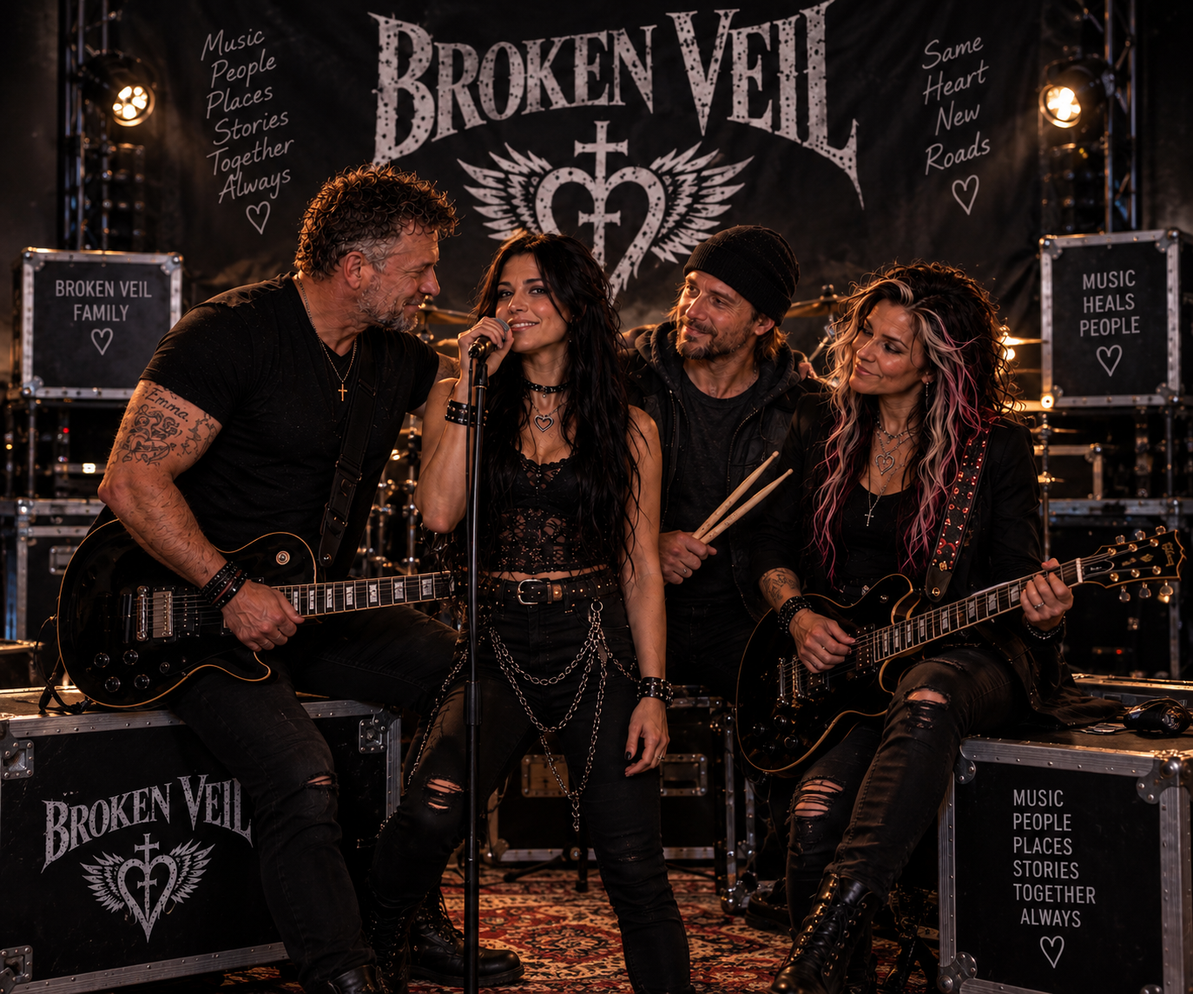
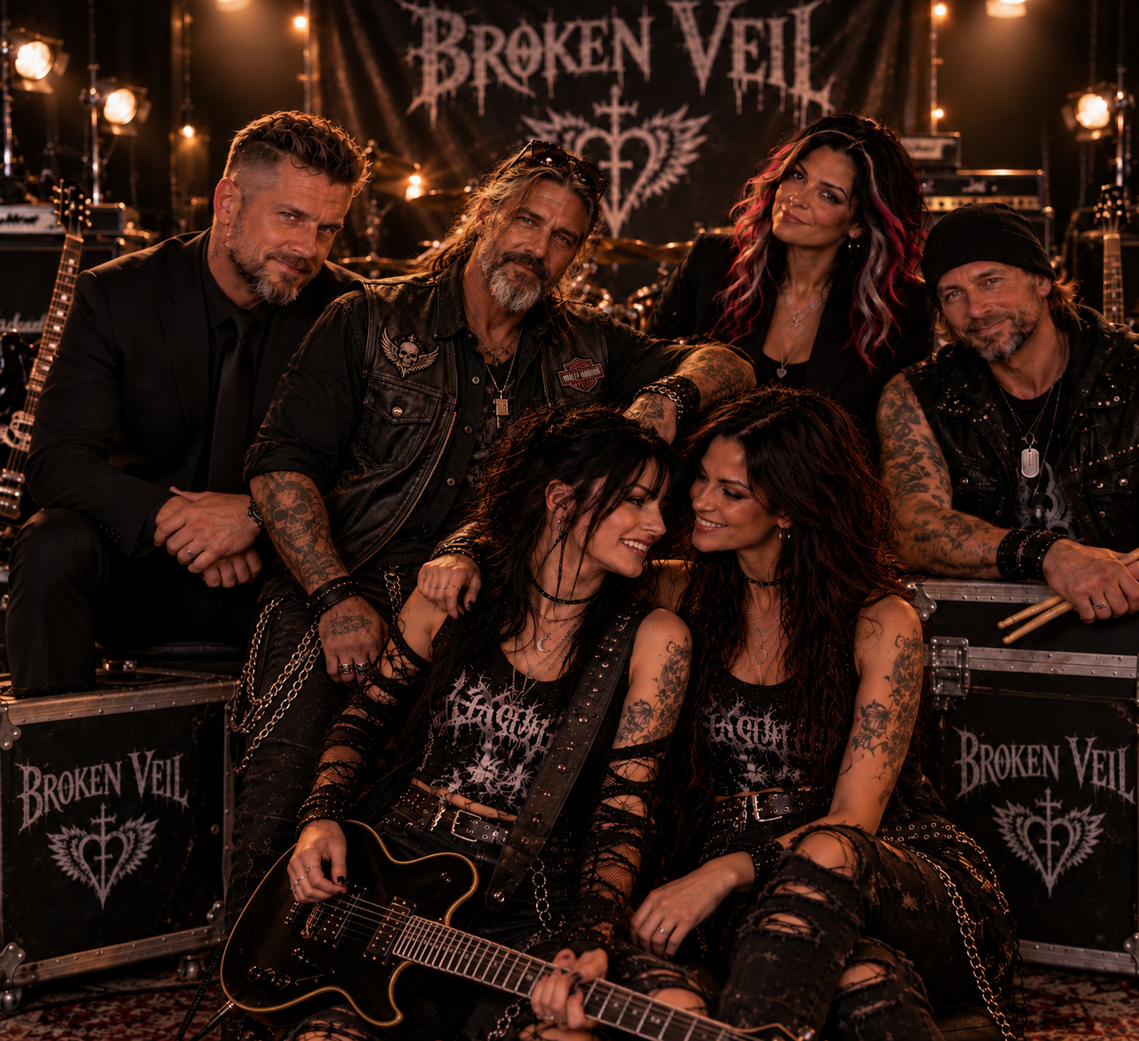
changes

diff --git a/app/page.tsx b/app/page.tsx
@@ -11,14 +11,14 @@ const copy = {
     intro: "Varneth Management Ness arbeider med KI-musikkproduksjon, utgivelse av egen KI-musikk og noveller basert på sangtekstene. Henning Stockmann Ness står bak virksomheten og tilbyr erfaringsbasert veiledning om musikk som støtte og terapeutisk verktøy.",
     genreLabel: "Musikalsk retning", genre: "Melodic Metalcore / Alternative Metal, med elementer av post-hardcore og moderne hardrock.",
     listen: "Utforsk musikken", contact: "Ta kontakt",
-    projects: "Varneth Management Ness", projectTitle: "Prosjekter og utgivelser.", projectIntro: "Foretakets egne musikkprosjekter. Finn riktig prosjekt på Facebook.", projectLink: "Se prosjektet på Facebook", brokenVisualLabel: "Broken Veil – fiktivt KI-band", brokenStoryLink: "Les første fortelling om Broken Veil", brokenBook3Link: "Les bok 3 – Cruiset", brokenBook2Coming: "Bok 2 kommer – historien fortsetter.", brokenBandDescription: "HENNING – grunnlegger og tidligere management-CEO, nå gitarist og en av grunnleggerne av Broken Veil. EMMELY – tredjegenerasjons vokalist og nåværende vokalist i Broken Veil, datter av Henning og Karianne. KARIANNE – Hennings kone og nåværende management-CEO. MARA – andregenerasjons vokalist, nå reservegitarist og bandsjef. EMIL – trommeslager og bror til Emma, førstegenerasjons vokalist og medgrunnlegger av Broken Veil. Alt er fiktivt og introduserer KI-bandet Broken Veil.", upcomingLabel: "Ny Broken Veil-produksjon", upcomingTitle: "Ashes Before Dawn / After We Burn", upcomingText: "En ny produksjon med musikalsk inspirasjon fra Arch Enemy. Utgivelsesdatoen er foreløpig ikke bestemt. Følg Broken Veil på Facebook for oppdateringer.", upcomingLink: "Se siste nytt på Facebook", upcomingAltOne: "Broken Veil – Ashes Before Dawn, et forspill til After We Burn", upcomingAltTwo: "Broken Veil – After We Burn", featuredLabel: "Utvalgt låt", featuredText: "Crown of Cracks fra Black Veil Hearts.", featuredLink: "Hør låten på Spotify", storyLabel: "Nytt prosjekt", storyTitle: "KI-storytelling musikkprosjekt", storyCaption: "Et nytt musikkprosjekt der sangene forteller historien.", storyAltOne: "KI-musikkillustrasjon med tittelen The Dark Romance", storyAltTwo: "KI-musikkillustrasjon med tittelen Kiss Me When the World Ends", storyAltThree: "Teaserbilde til KI-storytellingprosjektet The Dead Romance",
+    projects: "Varneth Management Ness", projectTitle: "Prosjekter og utgivelser.", projectIntro: "Foretakets egne musikkprosjekter. Finn riktig prosjekt på Facebook.", projectLink: "Se prosjektet på Facebook", brokenVisualLabel: "Broken Veil – tidligere og nåværende bandmedlemmer", brokenBandMembers: "Bildet samler tidligere og nåværende medlemmer av Broken Veil. Nye medlemmer er Jan «Iron» Kalland (68), gitarist, og Amy (26), gitarist.", brokenStoryLink: "Les første fortelling om Broken Veil", brokenBook3Link: "Les bok 3 – Cruiset", brokenBook2Label: "Bok under arbeid", brokenBook2Title: "Broken Veil – bok 2", brokenBook2Text: "Henning arbeider nå med neste bok i Broken Veil-fortellingen. Omslaget er klart, mens historien fortsatt er under utvikling.", brokenBook2Alt: "Omslag til Broken Veil bok 2, skrevet av Henning Stockmann Ness", brokenBandDescription: "HENNING – grunnlegger og tidligere management-CEO, nå gitarist og en av grunnleggerne av Broken Veil. EMMELY – tredjegenerasjons vokalist og nåværende vokalist i Broken Veil, datter av Henning og Karianne. KARIANNE – Hennings kone og nåværende management-CEO. MARA – andregenerasjons vokalist, nå reservegitarist og bandsjef. EMIL – trommeslager og bror til Emma, førstegenerasjons vokalist og medgrunnlegger av Broken Veil. Alt er fiktivt og introduserer KI-bandet Broken Veil.", upcomingLabel: "Ny Broken Veil-produksjon", upcomingTitle: "First Ride / No One Gets Replaced", upcomingText: "To nye Broken Veil-singler med musikalsk inspirasjon fra Arch Enemy. Utgivelsesdatoene er foreløpig ikke bestemt. Følg Broken Veil på Facebook for oppdateringer.", upcomingLink: "Se siste nytt på Facebook", upcomingAltOne: "Broken Veil – First Ride (instrumental)", upcomingAltTwo: "Broken Veil – No One Gets Replaced", featuredLabel: "Utvalgt låt", featuredText: "Crown of Cracks fra Black Veil Hearts.", featuredLink: "Hør låten på Spotify", storyLabel: "Nytt prosjekt", storyTitle: "KI-storytelling musikkprosjekt", storyCaption: "Et nytt musikkprosjekt der sangene forteller historien.", storyAltOne: "KI-musikkillustrasjon med tittelen The Dark Romance", storyAltTwo: "KI-musikkillustrasjon med tittelen Kiss Me When the World Ends", storyAltThree: "Teaserbilde til KI-storytellingprosjektet The Dead Romance",
     covers: "Coverbilder", coversTitle: "Utvalgte coverbilder.", coversIntro: "Tre coverbilder hører til Broken Veil. «Home to You» hører til Black Veil Hearts.", coverOpen: "Åpne omslaget i full størrelse",
     ai: "Eget KI-musikkprosjekt", search: "Søk på Spotify",
     human: "Bak uttrykket", humanTitle: "Henning", humanLast: "Stockmann Ness.", illustrationAlt: "KI-illustrasjon av Henning og Varneth Management Ness", illustrationCaption: "KI-illustrasjon av Henning og Varneth Management Ness – kreativitet, musikk og teknologi i utvikling.",
     bio: "Henning driver med KI-musikkproduksjon og utgir egen KI-musikk og noveller basert på sangtekstene. Gjennom Varneth Management Ness deler han også egne erfaringer med musikk som støtte og terapeutisk verktøy.", trainingTitle: "Relevant bakgrunn", training: ["Grunnkurs i AI engineering – pågående", "Grunnkurs i music management – pågående", "Grunnkurs i musikkproduksjon – pågående", "Egen produksjonserfaring: 2 album, 5 EP-er og 12 singler"],
     approach: "Kreativitet møter teknologi", approachText: "Egne musikkprosjekter. Nye verktøy. Et personlig uttrykk.",
-    craft: "Tjenestene", craftTitle: "Dette arbeider Henning med.",
-    services: [{ number: "01", title: "KI-musikkproduksjon", text: "Utvikling og produksjon av egne musikkprosjekter med KI som kreativt verktøy." }, { number: "02", title: "Egne utgivelser", text: "Utgivelse av egen KI-musikk og noveller som bygger videre på historiene i sangtekstene." }, { number: "03", title: "Musikk som terapi", text: "Erfaringsbasert veiledning om hvordan musikk kan brukes som støtte og terapeutisk verktøy." }],
+    craft: "Tjenestene", craftTitle: "Dette arbeider Henning med.", managementOverviewAlt: "Varneth Management – oversikt over support, musikkproduksjon og publisering", managementOverviewCaption: "Planlagt oversikt for Varneth Management: support, musikkproduksjon og publisering.",
+    services: [{ title: "KI-musikkproduksjon", text: "Utvikling og produksjon av egne musikkprosjekter med KI som kreativt verktøy." }, { title: "Egne utgivelser", text: "Utgivelse av egen KI-musikk og noveller som bygger videre på historiene i sangtekstene." }, { title: "Musikk som terapi", text: "Erfaringsbasert veiledning om hvordan musikk kan brukes som støtte og terapeutisk verktøy." }],
     inspiration: "På Hennings spilleliste", inspirationNote: "Musikalsk inspirasjon · uavhengige artister", inspirationLink: "Spotify-søk",
     end: "Har du et", endItalic: "spørsmål?", endText: "Vil du snakke om KI-musikkproduksjon, egne utgivelser eller erfaringsbasert bruk av musikk? Ta kontakt med Henning.", email: "Skriv til Henning", facebook: "Følg Varneth", footer: "KI-musikkproduksjon · Egne utgivelser · Musikk som terapi",
   },
@@ -28,14 +28,14 @@ const copy = {
     intro: "Varneth Management Ness works with AI music production, original AI music releases and short stories based on song lyrics. Henning Stockmann Ness leads the company and offers experience-based guidance on music as support and a therapeutic tool.",
     genreLabel: "Musical direction", genre: "Melodic Metalcore / Alternative Metal, with elements of post-hardcore and modern hard rock.",
     listen: "Explore the music", contact: "Get in touch",
-    projects: "Varneth Management Ness", projectTitle: "Projects and releases.", projectIntro: "The company’s original music projects. Find the right project on Facebook.", projectLink: "View project on Facebook", brokenVisualLabel: "Broken Veil – fictional AI band", brokenStoryLink: "Read the first Broken Veil story", brokenBook3Link: "Read book 3 – The Cruise", brokenBook2Coming: "Book 2 is coming – the story continues.", brokenBandDescription: "HENNING – founder and former management CEO, now guitarist and one of Broken Veil’s founders. EMMELY – third-generation vocalist and current Broken Veil vocalist, daughter of Henning and Karianne. KARIANNE – Henning’s wife and current management CEO. MARA – second-generation vocalist, now reserve guitarist and band leader. EMIL – drummer and brother of Emma, first-generation vocalist and co-founder of Broken Veil. Everything is fictional and introduces the AI band Broken Veil.", upcomingLabel: "New Broken Veil production", upcomingTitle: "Ashes Before Dawn / After We Burn", upcomingText: "A new production with musical inspiration from Arch Enemy. The release date has not yet been decided. Follow Broken Veil on Facebook for updates.", upcomingLink: "See the latest news on Facebook", upcomingAltOne: "Broken Veil – Ashes Before Dawn, a prelude to After We Burn", upcomingAltTwo: "Broken Veil – After We Burn", featuredLabel: "Featured track", featuredText: "Crown of Cracks by Black Veil Hearts.", featuredLink: "Listen on Spotify", storyLabel: "New project", storyTitle: "AI storytelling music project", storyCaption: "A new music project where the songs tell the story.", storyAltOne: "AI music artwork titled The Dark Romance", storyAltTwo: "AI music artwork titled Kiss Me When the World Ends", storyAltThree: "Teaser artwork for the AI storytelling project The Dead Romance",
+    projects: "Varneth Management Ness", projectTitle: "Projects and releases.", projectIntro: "The company’s original music projects. Find the right project on Facebook.", projectLink: "View project on Facebook", brokenVisualLabel: "Broken Veil – former and current band members", brokenBandMembers: "The image brings together former and current members of Broken Veil. New members are Jan “Iron” Kalland (68), guitarist, and Amy (26), guitarist.", brokenStoryLink: "Read the first Broken Veil story", brokenBook3Link: "Read book 3 – The Cruise", brokenBook2Label: "Book in progress", brokenBook2Title: "Broken Veil – book 2", brokenBook2Text: "Henning is currently working on the next book in the Broken Veil story. The cover is ready while the story is still in development.", brokenBook2Alt: "Cover of Broken Veil book 2, written by Henning Stockmann Ness", brokenBandDescription: "HENNING – founder and former management CEO, now guitarist and one of Broken Veil’s founders. EMMELY – third-generation vocalist and current Broken Veil vocalist, daughter of Henning and Karianne. KARIANNE – Henning’s wife and current management CEO. MARA – second-generation vocalist, now reserve guitarist and band leader. EMIL – drummer and brother of Emma, first-generation vocalist and co-founder of Broken Veil. Everything is fictional and introduces the AI band Broken Veil.", upcomingLabel: "New Broken Veil production", upcomingTitle: "First Ride / No One Gets Replaced", upcomingText: "Two new Broken Veil singles with musical inspiration from Arch Enemy. Release dates have not yet been decided. Follow Broken Veil on Facebook for updates.", upcomingLink: "See the latest news on Facebook", upcomingAltOne: "Broken Veil – First Ride (instrumental)", upcomingAltTwo: "Broken Veil – No One Gets Replaced", featuredLabel: "Featured track", featuredText: "Crown of Cracks by Black Veil Hearts.", featuredLink: "Listen on Spotify", storyLabel: "New project", storyTitle: "AI storytelling music project", storyCaption: "A new music project where the songs tell the story.", storyAltOne: "AI music artwork titled The Dark Romance", storyAltTwo: "AI music artwork titled Kiss Me When the World Ends", storyAltThree: "Teaser artwork for the AI storytelling project The Dead Romance",
     covers: "Cover artwork", coversTitle: "Selected artwork.", coversIntro: "Three covers belong to Broken Veil. «Home to You» belongs to Black Veil Hearts.", coverOpen: "Open full-size artwork",
     ai: "Original AI music project", search: "Search on Spotify",
     human: "Behind the sound", humanTitle: "Henning", humanLast: "Stockmann Ness.", illustrationAlt: "AI illustration of Henning and Varneth Management Ness", illustrationCaption: "AI illustration of Henning and Varneth Management Ness – creativity, music and technology in development.",
     bio: "Henning works with AI music production and releases original AI music and short stories based on song lyrics. Through Varneth Management Ness, he also shares his experience of music as support and a therapeutic tool.", trainingTitle: "Relevant background", training: ["Foundation course in AI engineering – in progress", "Foundation course in music management – in progress", "Foundation course in music production – in progress", "Independent production experience: 2 albums, 5 EPs and 12 singles"],
     approach: "Creativity meets technology", approachText: "Original music projects. New tools. A personal expression.",
-    craft: "Services", craftTitle: "What Henning works with.",
-    services: [{ number: "01", title: "AI music production", text: "Developing and producing original music projects with AI as a creative tool." }, { number: "02", title: "Original releases", text: "Releasing original AI music and short stories that expand on the stories told in the song lyrics." }, { number: "03", title: "Music as therapy", text: "Experience-based guidance on how music can be used as support and a therapeutic tool." }],
+    craft: "Services", craftTitle: "What Henning works with.", managementOverviewAlt: "Varneth Management – overview of support, music production and publishing", managementOverviewCaption: "Planned overview for Varneth Management: support, music production and publishing.",
+    services: [{ title: "AI music production", text: "Developing and producing original music projects with AI as a creative tool." }, { title: "Original releases", text: "Releasing original AI music and short stories that expand on the stories told in the song lyrics." }, { title: "Music as therapy", text: "Experience-based guidance on how music can be used as support and a therapeutic tool." }],
     inspiration: "On Henning’s playlist", inspirationNote: "Musical inspiration · independent artists", inspirationLink: "Spotify search",
     end: "Have a", endItalic: "question?", endText: "Want to talk about AI music production, original releases or the experience-based use of music? Get in touch with Henning.", email: "Write to Henning", facebook: "Follow Varneth", footer: "AI music production · Original releases · Music as therapy",
   },
@@ -94,11 +94,12 @@ export default function Home() {
         <div className="project-grid">
           {[{ name: "Broken Veil", url: "https://www.facebook.com/share/14ktmModUdV/", logo: "broken-veil.png", width: 1536, height: 1024, className: "project-broken-veil" }, { name: "Black Veil Hearts", url: "https://www.facebook.com/share/1U9urN8ys5/", logo: "black-veil-hearts.png", width: 1254, height: 1254, className: "project-black-veil-hearts" }].map(({ name, url, logo, width, height, className }) => <a className={`project ${className}`} href={url} target="_blank" rel="noreferrer" key={name}><div className="project-art project-logo"><Image src={`${basePath}/${logo}`} alt={`${name} – ${language === "nb" ? "prosjektlogo" : "project logo"}`} width={width} height={height} sizes="(max-width: 600px) 90vw, 44vw" /></div><div className="project-content"><p className="eyebrow">{t.ai}</p><h3>{name}</h3><span className="project-link">{t.projectLink}<b aria-hidden="true">↗</b></span></div></a>)}
         </div>
-        <figure className="project-feature-image"><Image src={`${basePath}/broken-veil-band.png`} alt={t.brokenVisualLabel} width={1374} height={1145} sizes="(max-width: 900px) 90vw, 70vw" /><figcaption>{t.brokenVisualLabel}</figcaption><a className="project-story-link" href={`${basePath}/broken-veil`}>{t.brokenStoryLink} <span aria-hidden="true">↗</span></a><a className="project-story-link" href={`${basePath}/broken-veil/book-3`}>{t.brokenBook3Link} <span aria-hidden="true">↗</span></a><p className="project-story-link project-story-link-muted">{t.brokenBook2Coming}</p></figure>
+        <figure className="project-feature-image"><Image src={`${basePath}/broken-veil-band.png`} alt={t.brokenVisualLabel} width={1374} height={1145} sizes="(max-width: 900px) 90vw, 70vw" /><figcaption>{t.brokenVisualLabel}</figcaption><p className="project-feature-copy">{t.brokenBandMembers}</p><a className="project-story-link" href={`${basePath}/broken-veil`}>{t.brokenStoryLink} <span aria-hidden="true">↗</span></a><a className="project-story-link" href={`${basePath}/broken-veil/book-3`}>{t.brokenBook3Link} <span aria-hidden="true">↗</span></a></figure>
+        <article className="book-preview"><figure><Image src={`${basePath}/broken-veil-book-2-cover.png`} alt={t.brokenBook2Alt} width={1024} height={1536} sizes="(max-width: 700px) 90vw, 360px" /></figure><div><p className="eyebrow">{t.brokenBook2Label}</p><h3>{t.brokenBook2Title}</h3><p>{t.brokenBook2Text}</p></div></article>
         <figure className="project-feature-image management-feature-image"><Image src={`${basePath}/broken-veil-management.png`} alt="Broken Veil sammen med managementet" width={1374} height={1145} sizes="(max-width: 900px) 90vw, 70vw" /><figcaption>Broken Veil sammen med managementet.</figcaption><p className="project-feature-copy">{t.brokenBandDescription}</p></figure>
         <section className="upcoming-production" aria-labelledby="upcoming-production-title">
           <div className="section-heading"><div><p className="eyebrow">{t.upcomingLabel}</p><h2 id="upcoming-production-title">{t.upcomingTitle}</h2></div><p>{t.upcomingText}</p></div>
-          <div className="upcoming-production-grid"><figure><Image src={`${basePath}/broken-veil-ashes-before-dawn.png`} alt={t.upcomingAltOne} width={1254} height={1254} sizes="(max-width: 700px) 90vw, 45vw" /><figcaption>Ashes Before Dawn</figcaption></figure><figure><Image src={`${basePath}/broken-veil-after-we-burn.png`} alt={t.upcomingAltTwo} width={1254} height={1254} sizes="(max-width: 700px) 90vw, 45vw" /><figcaption>After We Burn</figcaption></figure></div>
+          <div className="upcoming-production-grid"><figure><Image src={`${basePath}/broken-veil-first-ride.png`} alt={t.upcomingAltOne} width={1254} height={1254} sizes="(max-width: 700px) 90vw, 45vw" /><figcaption>First Ride</figcaption></figure><figure><Image src={`${basePath}/broken-veil-no-one-gets-replaced.png`} alt={t.upcomingAltTwo} width={1254} height={1254} sizes="(max-width: 700px) 90vw, 45vw" /><figcaption>No One Gets Replaced</figcaption></figure></div>
           <a className="project-story-link upcoming-production-link" href="https://www.facebook.com/share/14ktmModUdV/" target="_blank" rel="noreferrer">{t.upcomingLink} <span aria-hidden="true">↗</span></a>
         </section>
       <div className="cover-gallery" id="coverbilder" aria-labelledby="covers-title">
@@ -126,7 +127,7 @@ export default function Home() {
 
       <section className="about section" id="henning"><div className="about-content-grid"><div className="about-copy"><p className="eyebrow">{t.human}</p><h2>{t.humanTitle}<br /><em>{t.humanLast}</em></h2><p className="bio">{t.bio}</p><div className="background-list"><p className="eyebrow">{t.trainingTitle}</p><ul>{t.training.map(item => <li key={item}>{item}</li>)}</ul></div><a className="facebook-icon-link" href="https://www.facebook.com/share/1WVwG43WTq/" target="_blank" rel="noreferrer" aria-label="Facebook: Varneth Management Ness"><span className="facebook-icon-crop"><Image src={`${basePath}/facebook-brand.png`} alt="" width={40} height={40} sizes="40px" /></span><span>{t.facebook}</span></a></div><figure className="about-illustration"><Image src={`${basePath}/about-ai.png`} alt={t.illustrationAlt} width={1536} height={1152} sizes="(max-width: 900px) 90vw, 45vw" /><figcaption>{t.illustrationCaption}</figcaption></figure></div></section>
 
-      <section className="services section" aria-labelledby="services-title"><div className="section-heading"><div><p className="eyebrow">{t.craft}</p><h2 id="services-title">{t.craftTitle}</h2></div></div><div className="service-grid">{t.services.map(service => <article key={service.number}><span className="number">{service.number}</span><h3>{service.title}</h3><p>{service.text}</p></article>)}</div></section>
+      <section className="services section" aria-labelledby="services-title"><div className="section-heading"><div><p className="eyebrow">{t.craft}</p><h2 id="services-title">{t.craftTitle}</h2></div></div><div className="service-grid">{t.services.map(service => <article key={service.title}><h3>{service.title}</h3><p>{service.text}</p></article>)}</div><figure className="management-overview"><Image src={`${basePath}/varneth-management-overview.png`} alt={t.managementOverviewAlt} width={1536} height={1024} sizes="(max-width: 900px) 90vw, 80vw" /><figcaption>{t.managementOverviewCaption}</figcaption></figure></section>
 
 
       <aside className="inspiration section"><div><p className="eyebrow">{t.inspiration}</p><small>{t.inspirationNote}</small></div><div className="inspiration-links">{["Gravel N Bones", "Iron West", "Abdysall", "Arch Enemy"].map(name=><a href={search(name)} target="_blank" rel="noreferrer" key={name}>{name}<small>{t.inspirationLink} ↗</small></a>)}</div></aside>

diff --git a/app/globals.css b/app/globals.css
@@ -75,7 +75,7 @@ main .cover-modal-content { max-height:none; }
 .site-header{position:relative;z-index:5;display:flex;align-items:center;justify-content:space-between;gap:2rem;padding:1.6rem var(--gutter);border-bottom:1px solid var(--line);background:#080909}.wordmark strong{font-family:var(--serif);font-size:1.8rem;letter-spacing:.13em;font-weight:500}.wordmark strong span{font-family:var(--sans);font-size:.55rem;vertical-align:top;letter-spacing:0}.wordmark small{display:block;font-size:.48rem;letter-spacing:.4em;color:var(--gold);margin-top:.15rem}.site-header nav{display:flex;gap:2.5rem;font-size:.78rem;color:#c5beb2}.site-header nav a:hover{color:var(--gold)}.languages{display:flex;align-items:center;gap:.5rem;font-size:.65rem;color:var(--muted)}.languages button{border:0;background:transparent;padding:.5rem;color:var(--muted)}.languages button[aria-pressed=true]{color:var(--gold);border-bottom:1px solid var(--gold)}
 .hero{position:relative;isolation:isolate;display:grid;grid-template-columns:1fr 1fr;align-items:center;min-height:calc(100svh - 100px);padding:4rem var(--gutter) 7rem;overflow:hidden;background:radial-gradient(ellipse at 80% 55%,#31251b38,transparent 60%),#080909}.hero-copy{z-index:2;padding-right:1rem}.eyebrow{text-transform:uppercase;letter-spacing:.21em;font-size:.63rem;line-height:1.8;color:var(--gold);font-weight:500}h1{font-size:clamp(3.5rem,6.1vw,7rem);line-height:.98;letter-spacing:-.055em;margin-top:2rem}h1 em{display:block;margin-top:.2rem}.intro{max-width:27rem;font-size:.95rem;line-height:1.9;color:var(--muted);margin-top:2rem}.genre-line{max-width:34rem;margin-top:1.25rem;padding-left:1rem;border-left:1px solid var(--gold);color:#d4cdc3;font-size:.76rem;line-height:1.75}.genre-line span{display:block;margin-bottom:.25rem;color:var(--gold);font-size:.56rem;letter-spacing:.18em;text-transform:uppercase}.hero-actions{display:flex;align-items:center;gap:2rem;flex-wrap:wrap;margin-top:2.5rem}.button{display:inline-flex;align-items:center;justify-content:center;gap:2rem;background:linear-gradient(110deg,#e1c394,#b18a55);border:1px solid var(--gold);padding:1.05rem 1.5rem;color:#15120d;font-size:.75rem;font-weight:550;transition:box-shadow .3s,transform .3s}.button:hover{box-shadow:0 0 30px #c7a37025;transform:translateY(-3px)}.text-link{font-size:.76rem;border-bottom:1px solid var(--line);padding-bottom:.5rem}.text-link:hover{color:var(--gold)}.emblem{position:relative;display:grid;place-items:center;width:100%;z-index:1}.emblem img{width:100%;height:auto;position:relative;mix-blend-mode:screen}.halo{position:absolute;width:75%;aspect-ratio:1;border-radius:50%;background:#ac773417;filter:blur(45px);animation:breathe 9s ease-in-out infinite alternate}.hero-bottom{position:absolute;bottom:1.8rem;left:var(--gutter);right:var(--gutter);display:flex;align-items:center;justify-content:space-between;border-top:1px solid var(--line);padding-top:1.4rem;font-size:.58rem;letter-spacing:.18em;color:var(--muted)}.hero-bottom button{background:none;border:0;color:var(--muted);font-size:.65rem;padding:.5rem}.hero-bottom>a{font-size:1.3rem;color:var(--gold)}.atmosphere{position:absolute;inset:0;z-index:-1;pointer-events:none}.atmosphere i{position:absolute;top:-30%;left:15%;width:15%;height:160%;background:linear-gradient(90deg,transparent,#dcb37b09,transparent);transform:rotate(28deg);filter:blur(25px);animation:light 18s ease-in-out infinite alternate}.atmosphere i:nth-child(2){left:65%;animation-delay:-8s}.atmosphere i:nth-child(3){left:90%;animation-delay:-12s}
 .section{padding:6rem var(--gutter);border-top:1px solid var(--line)}.section-heading{display:flex;align-items:flex-end;justify-content:space-between;gap:3rem;margin-bottom:3rem}h2{font-size:clamp(2.7rem,4.8vw,5.3rem);line-height:1.02;letter-spacing:-.045em}.section-heading h2,.craft h2{margin-top:1rem}.section-heading>p{color:var(--muted);font-size:.87rem;line-height:1.8;max-width:20rem}.project-grid{display:grid;grid-template-columns:1fr 1fr;gap:1.5rem}.project{position:relative;overflow:hidden;border:1px solid var(--line);background:#11110f;transition:border-color .4s}.project:hover{border-color:var(--gold)}.project-art{position:relative;display:grid;place-items:center;height:21rem;overflow:hidden;background:radial-gradient(ellipse at 50% 130%,#9c704055,transparent 70%),#0d1010}.project-art>span{font-family:var(--serif);font-size:8rem;color:#baa27c55;letter-spacing:-.12em;z-index:1;transition:transform .7s,color .7s}.project:hover .project-art>span{transform:scale(1.06);color:#d6bb8a99}.veil{position:absolute;inset:-30%;background:repeating-conic-gradient(from 22deg at 50% 110%,transparent 0deg 9deg,#a3845315 10deg 11deg,transparent 13deg 20deg);filter:blur(2px);animation:veil 15s ease-in-out infinite alternate}.project-1 .project-art{background:radial-gradient(ellipse at 50% 110%,#63272b66,transparent 70%),#100d0e}.project-1 .veil{transform:rotate(180deg);animation-direction:alternate-reverse}.project-art>i{position:absolute;inset:17%;border:1px solid #c7a37035;transform:rotate(45deg);box-shadow:0 0 60px #c7a37009}.project-content{position:relative;padding:2rem;background:linear-gradient(#131312,#0c0d0d)}.project-content h3{font-size:2.7rem;margin:.4rem 0 1.5rem}.project-link{display:flex;justify-content:space-between;border-top:1px solid var(--line);padding-top:1rem;font-size:.73rem;color:var(--gold)}.project-link b{font-size:1.2rem;font-weight:400}.listening{display:grid;grid-template-columns:1fr 1.5fr;gap:2rem;align-items:center;margin-top:2rem;padding:2rem;border:1px solid var(--line);background:#101111}.listening p+p{font-family:var(--serif);font-size:2rem;margin-top:.6rem}.outline{background:transparent;color:var(--gold)}.player-area small{display:block;font-size:.64rem;color:var(--muted);margin-top:.8rem;line-height:1.6}.player-area iframe{display:block;border:0;border-radius:12px}
-.about{display:grid;grid-template-columns:1fr 1fr;gap:5rem;align-items:center;background:linear-gradient(135deg,#13110e,#080909)}.about h2{margin:1.5rem 0}.bio{color:var(--muted);font-size:.9rem;line-height:1.9;max-width:31rem;margin-bottom:2rem}.film{position:relative;display:flex;flex-direction:column;justify-content:space-between;min-height:29rem;padding:2rem;overflow:hidden;border:1px solid var(--line);background:radial-gradient(ellipse at 80% 0,#72533160,transparent 65%),#101010}.strings{position:absolute;inset:-20%;display:flex;justify-content:center;gap:1.2rem;transform:rotate(28deg);pointer-events:none}.strings i{width:1px;height:100%;background:linear-gradient(transparent,#c8ac7977,transparent);transition:transform .7s}.film:hover .strings i:nth-child(odd){transform:translateX(7px)}.film>.eyebrow,.film-caption{z-index:1}.play{display:grid;place-items:center;align-self:center;width:5rem;height:5rem;border:1px solid var(--gold);border-radius:50%;color:var(--gold);font-size:2rem;transition:background .3s}.film:hover .play{background:#c7a37022}.film-caption h3{font-size:3.8rem}.film-caption>span{display:block;font-size:.75rem;color:var(--gold);margin:.7rem 0}.film-caption small{font-size:.6rem;color:var(--muted)}.service-grid{display:grid;grid-template-columns:repeat(3,1fr);margin-top:3rem;gap:3rem}.service-grid article{border-top:1px solid var(--line);padding-top:1.5rem}.number{font-size:.64rem;color:var(--gold)}.service-grid h3{font-size:2rem;margin:2rem 0 1rem}.service-grid p{color:var(--muted);font-size:.85rem;line-height:1.8}.inspiration{display:flex;justify-content:space-between;gap:3rem;padding-top:3rem;padding-bottom:3rem;background:#101110}.inspiration small{font-size:.64rem;color:var(--muted);line-height:1.8}.inspiration-links{display:flex;gap:3rem;flex-wrap:wrap}.inspiration-links>a{font-family:var(--serif);font-size:1.5rem}.inspiration-links small{display:block;font-family:var(--sans);margin-top:.3rem}.inspiration-links>a:hover{color:var(--gold)}.contact{position:relative;text-align:center;background:radial-gradient(ellipse at 50% 110%,#7f58292b,transparent 65%);padding-top:7rem;padding-bottom:7rem}.contact h2{font-size:clamp(4rem,8vw,8rem);margin:2rem 0;line-height:.9}.contact>p:not(.eyebrow){max-width:29rem;color:var(--muted);line-height:1.9;font-size:.9rem;margin:0 auto 2rem}.email{display:block;width:fit-content;margin:1.3rem auto 0;color:var(--muted);font-size:.75rem}footer{border-top:1px solid var(--line);padding:2rem var(--gutter);display:flex;align-items:center;justify-content:space-between;gap:2rem;color:var(--muted)}.footer-brand{font-family:var(--serif);font-size:1.4rem;letter-spacing:.15em;color:var(--gold)}footer span,footer small{font-size:.6rem;line-height:1.8}
+.about{display:grid;grid-template-columns:1fr 1fr;gap:5rem;align-items:center;background:linear-gradient(135deg,#13110e,#080909)}.about h2{margin:1.5rem 0}.bio{color:var(--muted);font-size:.9rem;line-height:1.9;max-width:31rem;margin-bottom:2rem}.film{position:relative;display:flex;flex-direction:column;justify-content:space-between;min-height:29rem;padding:2rem;overflow:hidden;border:1px solid var(--line);background:radial-gradient(ellipse at 80% 0,#72533160,transparent 65%),#101010}.strings{position:absolute;inset:-20%;display:flex;justify-content:center;gap:1.2rem;transform:rotate(28deg);pointer-events:none}.strings i{width:1px;height:100%;background:linear-gradient(transparent,#c8ac7977,transparent);transition:transform .7s}.film:hover .strings i:nth-child(odd){transform:translateX(7px)}.film>.eyebrow,.film-caption{z-index:1}.play{display:grid;place-items:center;align-self:center;width:5rem;height:5rem;border:1px solid var(--gold);border-radius:50%;color:var(--gold);font-size:2rem;transition:background .3s}.film:hover .play{background:#c7a37022}.film-caption h3{font-size:3.8rem}.film-caption>span{display:block;font-size:.75rem;color:var(--gold);margin:.7rem 0}.film-caption small{font-size:.6rem;color:var(--muted)}.service-grid{display:grid;grid-template-columns:repeat(3,1fr);margin-top:3rem;gap:3rem}.service-grid article{border-top:1px solid var(--line);padding-top:1.5rem}.service-grid h3{font-size:2rem;margin:1.5rem 0 1rem}.service-grid p{color:var(--muted);font-size:.85rem;line-height:1.8}.inspiration{display:flex;justify-content:space-between;gap:3rem;padding-top:3rem;padding-bottom:3rem;background:#101110}.inspiration small{font-size:.64rem;color:var(--muted);line-height:1.8}.inspiration-links{display:flex;gap:3rem;flex-wrap:wrap}.inspiration-links>a{font-family:var(--serif);font-size:1.5rem}.inspiration-links small{display:block;font-family:var(--sans);margin-top:.3rem}.inspiration-links>a:hover{color:var(--gold)}.contact{position:relative;text-align:center;background:radial-gradient(ellipse at 50% 110%,#7f58292b,transparent 65%);padding-top:7rem;padding-bottom:7rem}.contact h2{font-size:clamp(4rem,8vw,8rem);margin:2rem 0;line-height:.9}.contact>p:not(.eyebrow){max-width:29rem;color:var(--muted);line-height:1.9;font-size:.9rem;margin:0 auto 2rem}.email{display:block;width:fit-content;margin:1.3rem auto 0;color:var(--muted);font-size:.75rem}footer{border-top:1px solid var(--line);padding:2rem var(--gutter);display:flex;align-items:center;justify-content:space-between;gap:2rem;color:var(--muted)}.footer-brand{font-family:var(--serif);font-size:1.4rem;letter-spacing:.15em;color:var(--gold)}footer span,footer small{font-size:.6rem;line-height:1.8}
 @keyframes breathe{to{transform:scale(1.15);opacity:.5}}@keyframes light{to{transform:translateX(70px) rotate(17deg);opacity:.35}}@keyframes veil{to{translate:3% 2%;scale:1.1}}.motion-paused *{animation-play-state:paused!important}
 @media(min-width:1500px){main{max-width:1800px;margin:auto}}
 @media(max-width:900px){.hero{grid-template-columns:1fr;padding-top:3.5rem;min-height:auto}.hero-copy{max-width:38rem}.hero h1{font-size:clamp(3.7rem,9vw,6rem)}.emblem{max-width:36rem;margin:1.5rem auto 0}.site-header nav{gap:1rem}.about{gap:2rem}.section{padding-top:4rem;padding-bottom:4rem}.inspiration{flex-direction:column;gap:1.5rem}.project-art{height:17rem}.service-grid{gap:1.5rem}.service-grid h3{font-size:1.7rem}}
@@ -86,6 +86,8 @@ main .cover-modal-content { max-height:none; }
 .facebook-icon-link{display:inline-flex;align-items:center;gap:.65rem;width:fit-content;margin-top:1.25rem;color:var(--muted);font-size:.75rem;transition:color .2s ease}.facebook-icon-link:hover{color:var(--gold)}.facebook-icon-crop{display:block;flex:0 0 2.5rem;width:2.5rem;height:2.5rem;overflow:hidden;border-radius:50%}.facebook-icon-crop img{display:block;width:100%;height:100%;object-fit:cover;object-position:center;transform:scale(2)}
 .project-feature-image{width:min(70rem,100%);margin:2.5rem auto 0;overflow:hidden;border:1px solid var(--line);background:#080808}.project-feature-image img{display:block;width:100%;height:auto}.project-feature-image figcaption{padding:.8rem 1rem;color:var(--muted);font-size:.7rem;letter-spacing:.08em;text-transform:uppercase}
 .project-story-link{display:block;width:fit-content;margin:0 1rem 1rem;padding-top:.25rem;color:var(--gold);font-size:.76rem;border-bottom:1px solid var(--line);padding-bottom:.45rem}.project-story-link:hover{color:var(--white)}.project-story-link span{margin-left:.35rem}
+.book-preview{display:grid;grid-template-columns:minmax(16rem,24rem) minmax(0,1fr);align-items:center;gap:clamp(2rem,6vw,5rem);width:min(70rem,100%);margin:2.5rem auto 0;padding:clamp(1.25rem,3vw,2.5rem);border:1px solid var(--line);background:linear-gradient(120deg,#0b0b0b,#15100d)}.book-preview figure{margin:0;overflow:hidden;border:1px solid var(--line);background:#050505}.book-preview img{display:block;width:100%;height:auto}.book-preview h3{margin:.8rem 0 1.2rem;font-size:clamp(2.1rem,4vw,4rem)}.book-preview div>p:last-child{max-width:32rem;color:var(--muted);font-size:.9rem;line-height:1.85}@media(max-width:700px){.book-preview{grid-template-columns:1fr}.book-preview figure{width:min(100%,25rem);margin:auto}.book-preview div{text-align:center}.book-preview div>p:last-child{margin:auto}}
+.management-overview{width:min(76rem,100%);margin:3.5rem auto 0;overflow:hidden;border:1px solid var(--line);background:#050505}.management-overview img{display:block;width:100%;height:auto}.management-overview figcaption{padding:1rem 1.2rem;color:var(--muted);font-size:.72rem;line-height:1.7}
 .story-page{min-height:100svh;background:radial-gradient(ellipse at 50% 0,#2b211833,transparent 42%),var(--black);color:var(--white)}.story-page-header{max-width:58rem;margin:0 auto;padding:clamp(4rem,10vw,9rem) var(--gutter) 4rem}.story-back-link{display:inline-block;margin-bottom:3rem;color:var(--gold);font-size:.75rem;border-bottom:1px solid var(--line);padding-bottom:.5rem}.story-page-header h1{margin-top:1.5rem;font-size:clamp(3.4rem,8vw,8rem);line-height:.9}.story-subtitle{max-width:35rem;margin-top:1.5rem;color:var(--muted);font-family:var(--serif);font-size:clamp(1.3rem,2.4vw,2rem);line-height:1.3}.story-credits{margin-top:1.5rem;color:var(--gold);font-size:.7rem;letter-spacing:.08em}.story-image-grid{display:grid;grid-template-columns:repeat(4,minmax(0,1fr));gap:.75rem;padding:0 var(--gutter) 5rem;max-width:1500px;margin:0 auto}.story-image-grid figure{margin:0;aspect-ratio:1;overflow:hidden;border:1px solid var(--line);background:#080808}.story-image-grid img{display:block;width:100%;height:100%;object-fit:cover}.story-copy{max-width:48rem;margin:0 auto;padding:0 var(--gutter) 5rem}.story-chapter{padding:4rem 0;border-top:1px solid var(--line)}.story-chapter h2{margin:1rem 0 1.75rem;font-size:clamp(2.4rem,5vw,4.8rem)}.story-chapter p{margin-top:1.1rem;color:#d0c8bd;font-family:var(--serif);font-size:1.12rem;line-height:1.8}.story-page-footer{max-width:48rem;margin:0 auto;padding:0 var(--gutter) 5rem}@media(max-width:900px){.story-image-grid{grid-template-columns:repeat(3,minmax(0,1fr))}}@media(max-width:600px){.story-image-grid{grid-template-columns:repeat(2,minmax(0,1fr));gap:.5rem}.story-page-header{padding-top:3rem}.story-page-header h1{font-size:clamp(3rem,15vw,5rem)}.story-chapter{padding:3rem 0}.story-chapter p{font-size:1.04rem;line-height:1.7}}
 .about-content-grid{display:grid;grid-template-columns:minmax(0,1fr) minmax(0,1fr);gap:4rem;align-items:center;width:100%}
 .about-copy{max-width:42rem}
